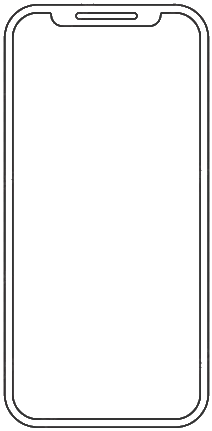
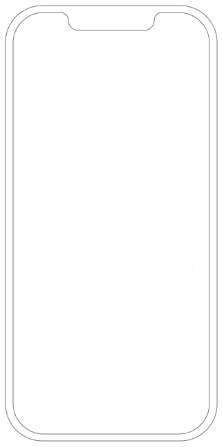
add context for global state

Changed region(s): [[0.0, 0.0, 0.9906, 0.9954]]

diff --git a/src/app/components/ProfileForm.tsx b/src/app/components/ProfileForm.tsx
@@ -18,6 +18,7 @@ import { Button } from "./ui/button";
 import { toast } from "./ui/use-toast";
 import ImageUpload from "./ImageUpload";
 import { useEffect } from "react";
+import { ProfileFormData, useUser } from "../context";
 
 const FormSchema = z.object({
   firstName: z.string().min(2, {
@@ -37,16 +38,12 @@ const FormSchema = z.object({
     ),
   images: z.array(z.unknown()).optional(),
 });
-type ProfileFormData = {
-  firstName: string;
-  lastName: string;
-  email: string;
-  profilePicture?: File | null;
-};
+
 const ProfileForm = () => {
   const form = useForm<z.infer<typeof FormSchema>>({
     resolver: zodResolver(FormSchema),
   });
+  const { setProfile } = useUser();
   function onSubmit(data: z.infer<typeof FormSchema>) {
     const formData: ProfileFormData = {
       firstName: data.firstName,
@@ -57,7 +54,8 @@ const ProfileForm = () => {
     if (data.images && data.images.length > 0) {
       formData.profilePicture = data.images[0] as File;
     }
-    console.log(formData);
+    setProfile(formData);
+    // console.log(formData);
     toast({
       title: "You submitted the following values:",
       description: (

diff --git a/src/app/context/index.tsx b/src/app/context/index.tsx
@@ -1,0 +1,50 @@
+"use client";
+import { type } from "os";
+import React, {
+  PropsWithChildren,
+  createContext,
+  useContext,
+  useState,
+} from "react";
+// define the props
+
+export type ProfileFormData = {
+  firstName: string;
+  lastName: string;
+  email: string;
+  profilePicture?: File | null;
+};
+
+type ProfileState = ProfileFormData | null;
+
+type UserState = {
+  profile: ProfileState;
+  setProfile: React.Dispatch<React.SetStateAction<ProfileState>>;
+};
+
+const initialState: AppState = {
+  user: {
+    profile: null,
+    setProfile: () => {},
+  },
+};
+const AppContext = createContext<AppState>(initialState);
+
+type AppState = {
+  user: UserState;
+};
+
+export const AppProvider = (props: PropsWithChildren) => {
+  const [profile, setProfile] = useState<ProfileState>(null);
+
+  const user = {
+    profile,
+    setProfile,
+  };
+
+  return (
+    <AppContext.Provider value={{ user }}>{props.children}</AppContext.Provider>
+  );
+};
+
+export const useUser = (): UserState => useContext(AppContext).user;

diff --git a/src/app/components/Header.tsx b/src/app/components/Header.tsx
@@ -1,16 +1,21 @@
 "use client";
 import { Button } from "@/app/components/ui/button";
 import Link from "next/link";
-import React from "react";
+import React, { useEffect } from "react";
 import Container from "./Container";
 import { LinkIcon, UserCircleIcon } from "@heroicons/react/24/outline";
 import NavLinks from "./NavLinks";
 import Image from "next/image";
 import { usePathname } from "next/navigation";
 import path from "path";
+import { useUser } from "../context";
 
 const Header = () => {
   const pathname = usePathname();
+  const user = useUser();
+  useEffect(() => {
+    console.log(user);
+  }, [user]);
   const inPreview = pathname === "/preview";
   return (
     <Container>

diff --git a/src/app/layout.tsx b/src/app/layout.tsx
@@ -3,6 +3,7 @@ import type { Metadata } from "next";
 import { Inter } from "next/font/google";
 import Header from "./components/Header";
 import { Toaster } from "./components/ui/toaster";
+import { AppProvider } from "./context";
 const inter = Inter({ subsets: ["latin"] });
 
 export const metadata: Metadata = {
@@ -18,9 +19,11 @@ export default function RootLayout({
   return (
     <html lang="en">
       <body className={`bg-muted min-h-screen p-5 ${inter.className}`}>
-        <Header />
-        {children}
-        <Toaster />
+        <AppProvider>
+          <Header />
+          {children}
+          <Toaster />
+        </AppProvider>
       </body>
     </html>
   );

diff --git a/src/app/components/LinkPagesLayout.tsx b/src/app/components/LinkPagesLayout.tsx
@@ -10,12 +10,12 @@ const LinkPagesLayout = ({ children }: { children: React.ReactNode }) => {
           <div className="w-full h-ful border p-4 flex-1  rounded-xl bg-white ">
             <div className="bg-red-50s0 m-16">
               <Image
-                className="w-full object-cover opacity-60"
+                className="w-full object-cover"
                 src={"/iphone.png"}
                 alt="iphone"
-                width={100}
-                height={100}
-                quality={95}
+                width={1080}
+                height={1080}
+                quality={100}
               />
             </div>
           </div>
